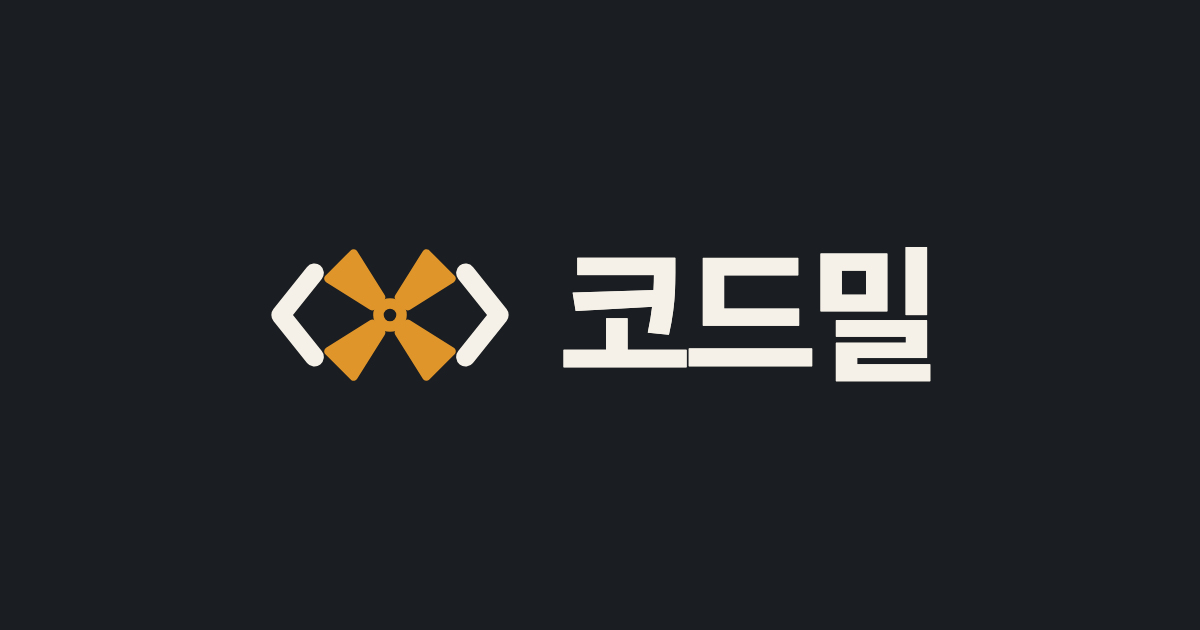
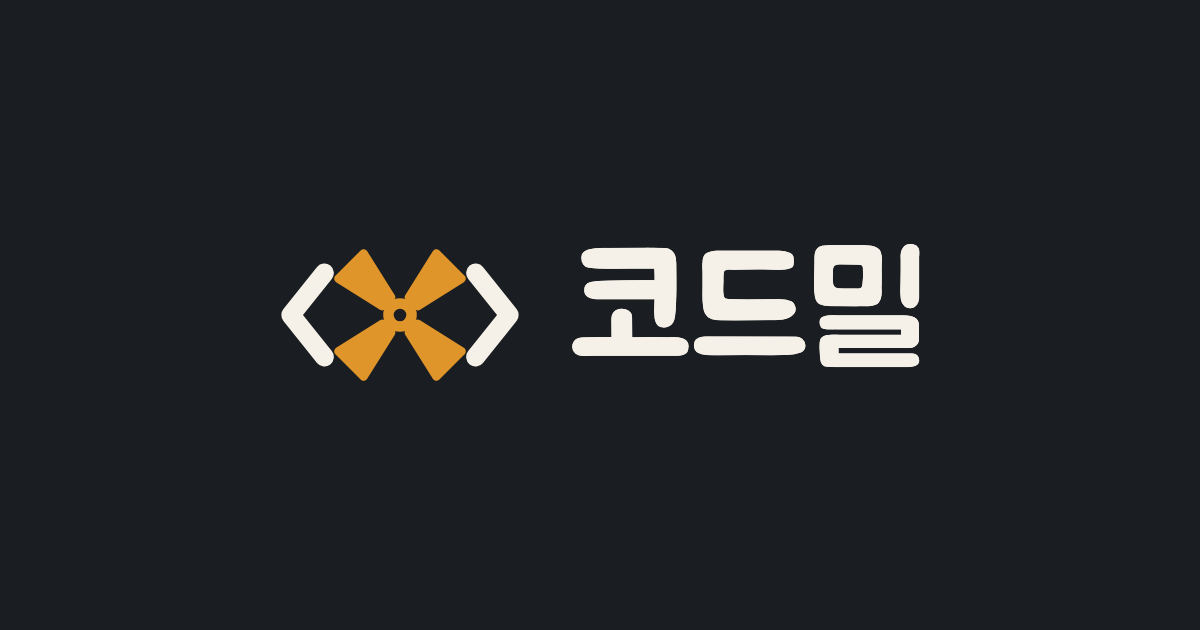
style: 로고 글꼴을 Jua로 바꾸고 회사 소개 문구 수정

Changed region(s): [[0.4625, 0.3921, 0.8017, 0.6333], [0.2158, 0.3921, 0.4317, 0.6032]]

diff --git a/index.html b/index.html
@@ -16,6 +16,7 @@
 <link rel="apple-touch-icon" href="/apple-touch-icon.png">
 <link rel="stylesheet" href="https://cdn.jsdelivr.net/gh/orioncactus/pretendard@v1.3.9/dist/web/static/pretendard.min.css">
 <link rel="stylesheet" href="https://fonts.googleapis.com/css2?family=Gowun+Batang:wght@700&text=%EB%84%88%EB%A5%BC%EB%8B%B4%EC%95%84&display=swap">
+<link rel="stylesheet" href="https://fonts.googleapis.com/css2?family=Jua&text=%EC%BD%94%EB%93%9C%EB%B0%80&display=swap">
 <style>
   :root {
     --ink: #1A1D21;
@@ -40,7 +41,7 @@
 
   header.top { position: absolute; inset: 0 0 auto 0; z-index: 2; }
   header.top .wrap { display: flex; align-items: center; justify-content: space-between; height: 76px; }
-  .brand { display: flex; align-items: center; gap: 10px; color: var(--cream); font-weight: 700; font-size: 18px; }
+  .brand { display: flex; align-items: center; gap: 10px; color: var(--cream); font-family: Jua, Pretendard, sans-serif; font-weight: 400; font-size: 21px; }
   .brand svg { width: 34px; height: 28px; }
   .top nav { display: flex; gap: 28px; }
   .top nav a { color: var(--cream); opacity: .72; font-size: 15px; }
@@ -49,7 +50,7 @@
   .hero { background: var(--ink); color: var(--cream); padding: 176px 0 136px; }
   .hero .mark { display: flex; align-items: center; gap: 30px; margin-bottom: 56px; }
   .hero .mark .sym { width: 144px; height: 120px; flex: none; }
-  .hero .mark .han { font-size: 104px; font-weight: 800; line-height: 1; letter-spacing: -0.03em; }
+  .hero .mark .han { font-family: Jua, Pretendard, sans-serif; font-size: 112px; font-weight: 400; line-height: 1; }
   .blades { transform-box: view-box; transform-origin: 60px 50px; animation: spin 20s linear infinite; }
   .hero .mark:hover .blades { animation-duration: 2.5s; }
   @keyframes spin { to { transform: rotate(360deg); } }
@@ -153,7 +154,7 @@
         <span class="han">코드밀</span>
       </div>
       <h1>잘 <em>돌아가는</em> 소프트웨어를 만듭니다.</h1>
-      <p>기획부터 개발, 배포와 운영까지 한 팀처럼 맡습니다.</p>
+      <p>기획부터 개발, 배포와 운영까지 직접 맡습니다.</p>
     </div>
   </div>
 
@@ -164,8 +165,8 @@
         <h2>멈추지 않고 돌아가는 것이<br>좋은 소프트웨어라고 믿습니다.</h2>
       </div>
       <div>
-        <p class="lead">코드밀은 웹 서비스와 모바일 앱, 업무용 소프트웨어를 만드는 개발 회사입니다. 화면 몇 장을 만들고 끝내기보다, 실제 현장에서 매일 쓰이고 문제가 생겨도 빠르게 다시 돌아가는 시스템을 만드는 데 집중합니다.</p>
-        <p class="lead">처음 상담부터 출시 이후 운영까지 같은 사람이 맡기 때문에, 요구 사항이 중간에 흩어지지 않습니다.</p>
+        <p class="lead">코드밀은 웹 서비스와 모바일 앱, 업무용 소프트웨어를 만듭니다. 만들어서 넘기고 끝내지 않습니다. 현장에서 매일 쓰이고, 문제가 생기면 빨리 고쳐 다시 돌아가게 하는 것까지가 코드밀의 일입니다.</p>
+        <p class="lead">상담부터 출시 뒤 운영까지 한 사람이 끝까지 맡습니다. 처음 나눈 이야기가 중간에 흐려지지 않습니다.</p>
       </div>
     </div>
   </section>
